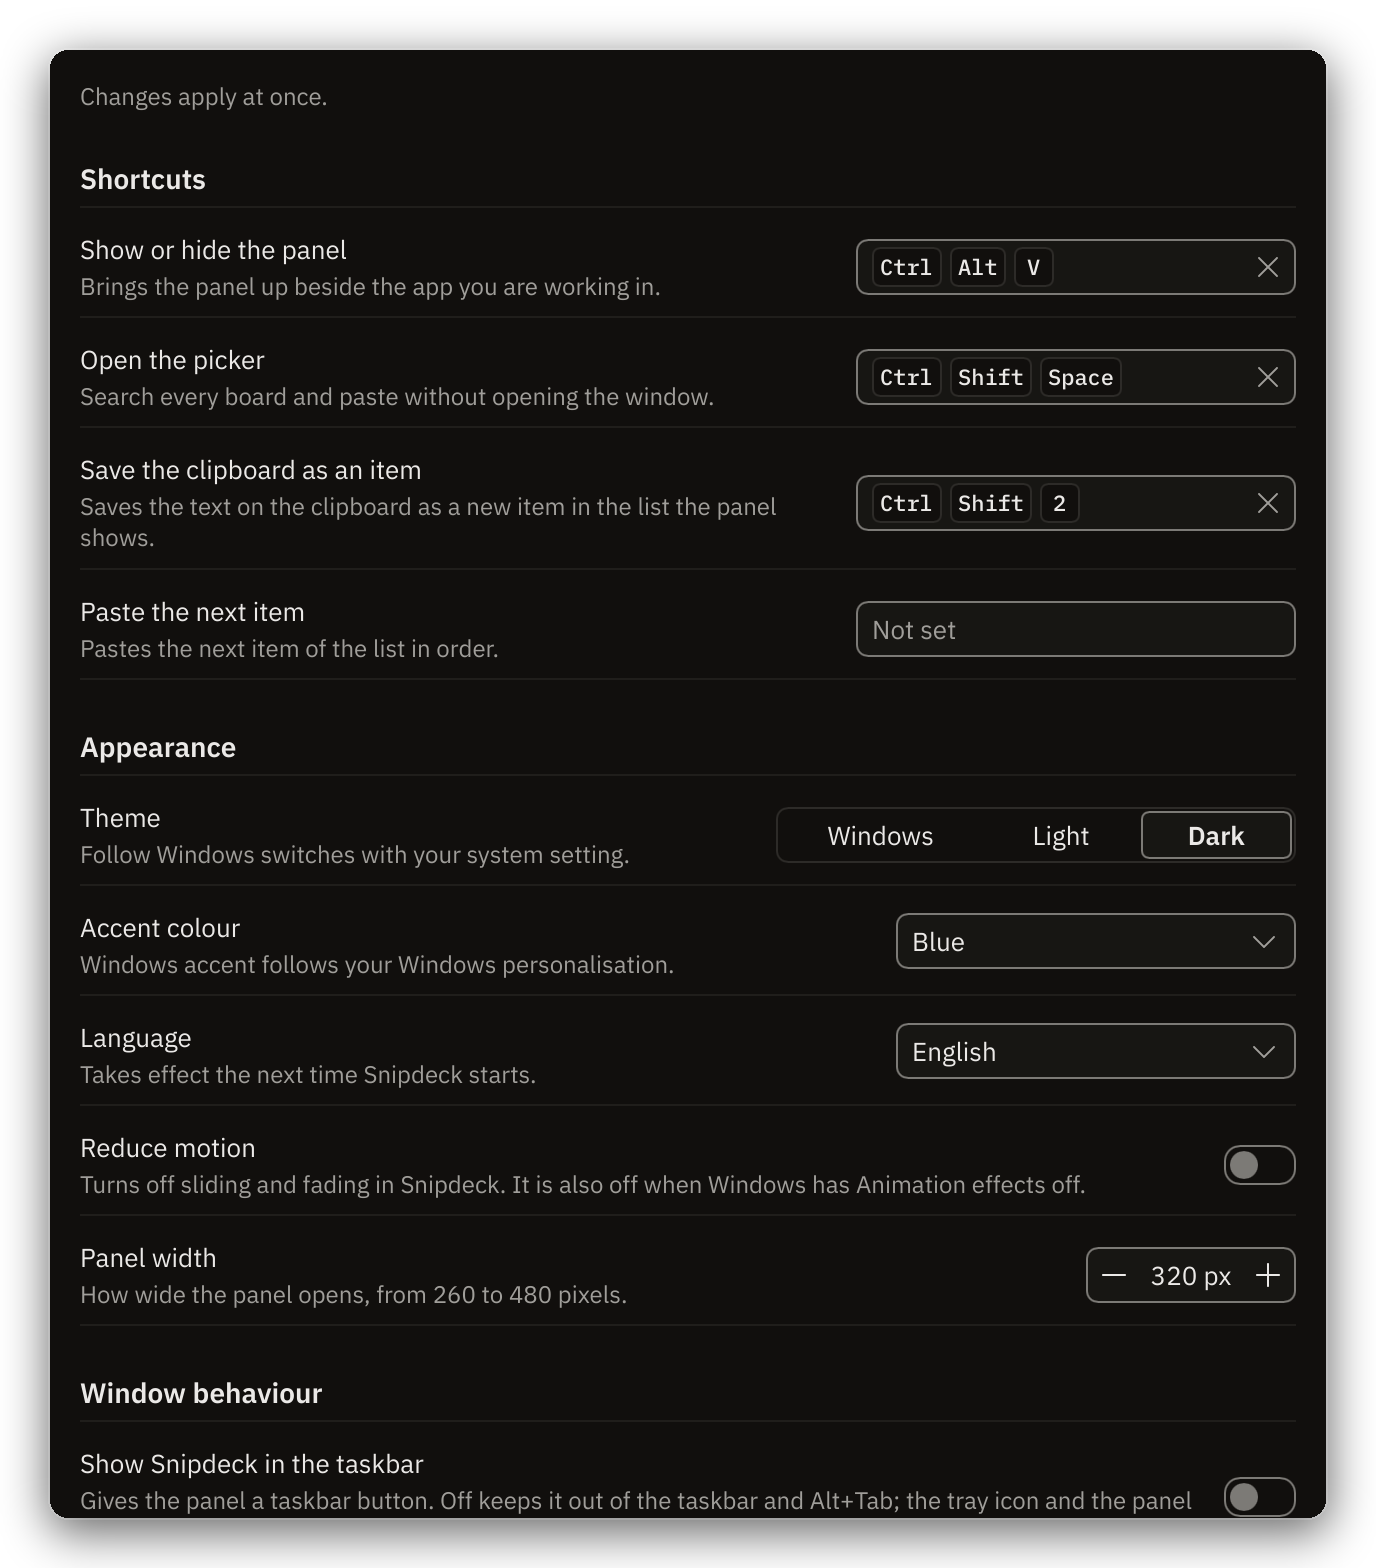
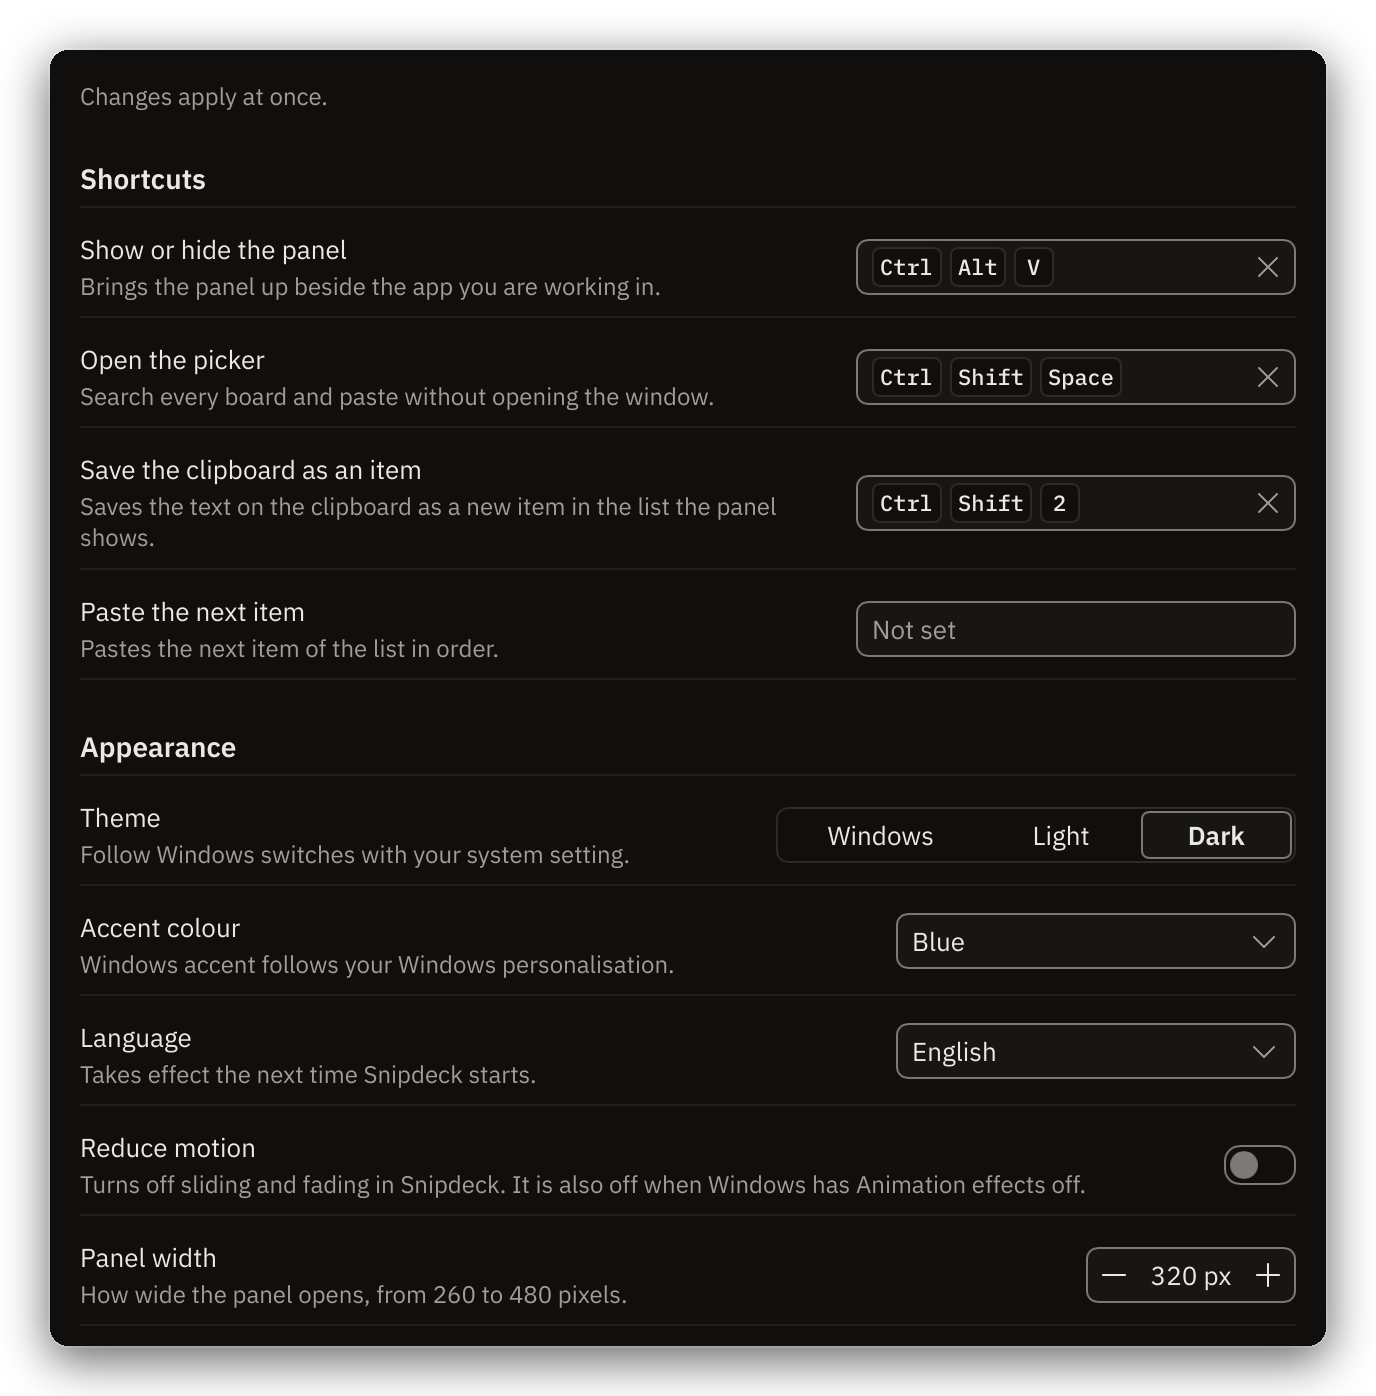
D2 follow-up: crop the Settings shot between rows
The cut now falls in the gap after Panel width, so no row is clipped.

Claude-Session: https://claude.ai/code/session_01Haxw5UhdjTPvNo4KAUcPWG

diff --git a/scripts/readme_shots.py b/scripts/readme_shots.py
@@ -65,8 +65,10 @@ def framed(im: Image.Image, dark: bool) -> Image.Image:
 
 
 def trim_settings(im: Image.Image) -> Image.Image:
-    # The Settings render is tall; show the top, which holds the everyday options.
-    return im.crop((0, 0, im.width, min(im.height, int(im.width * 1.15))))
+    # The Settings render is tall; show the top, which holds the everyday options. The cut
+    # (1300px at 2x) sits in the gap between the Panel width row and Window behaviour, so no
+    # row is clipped.
+    return im.crop((0, 0, im.width, min(im.height, 1300)))
 
 
 def hero(src: Path, theme: str) -> Image.Image | None:
